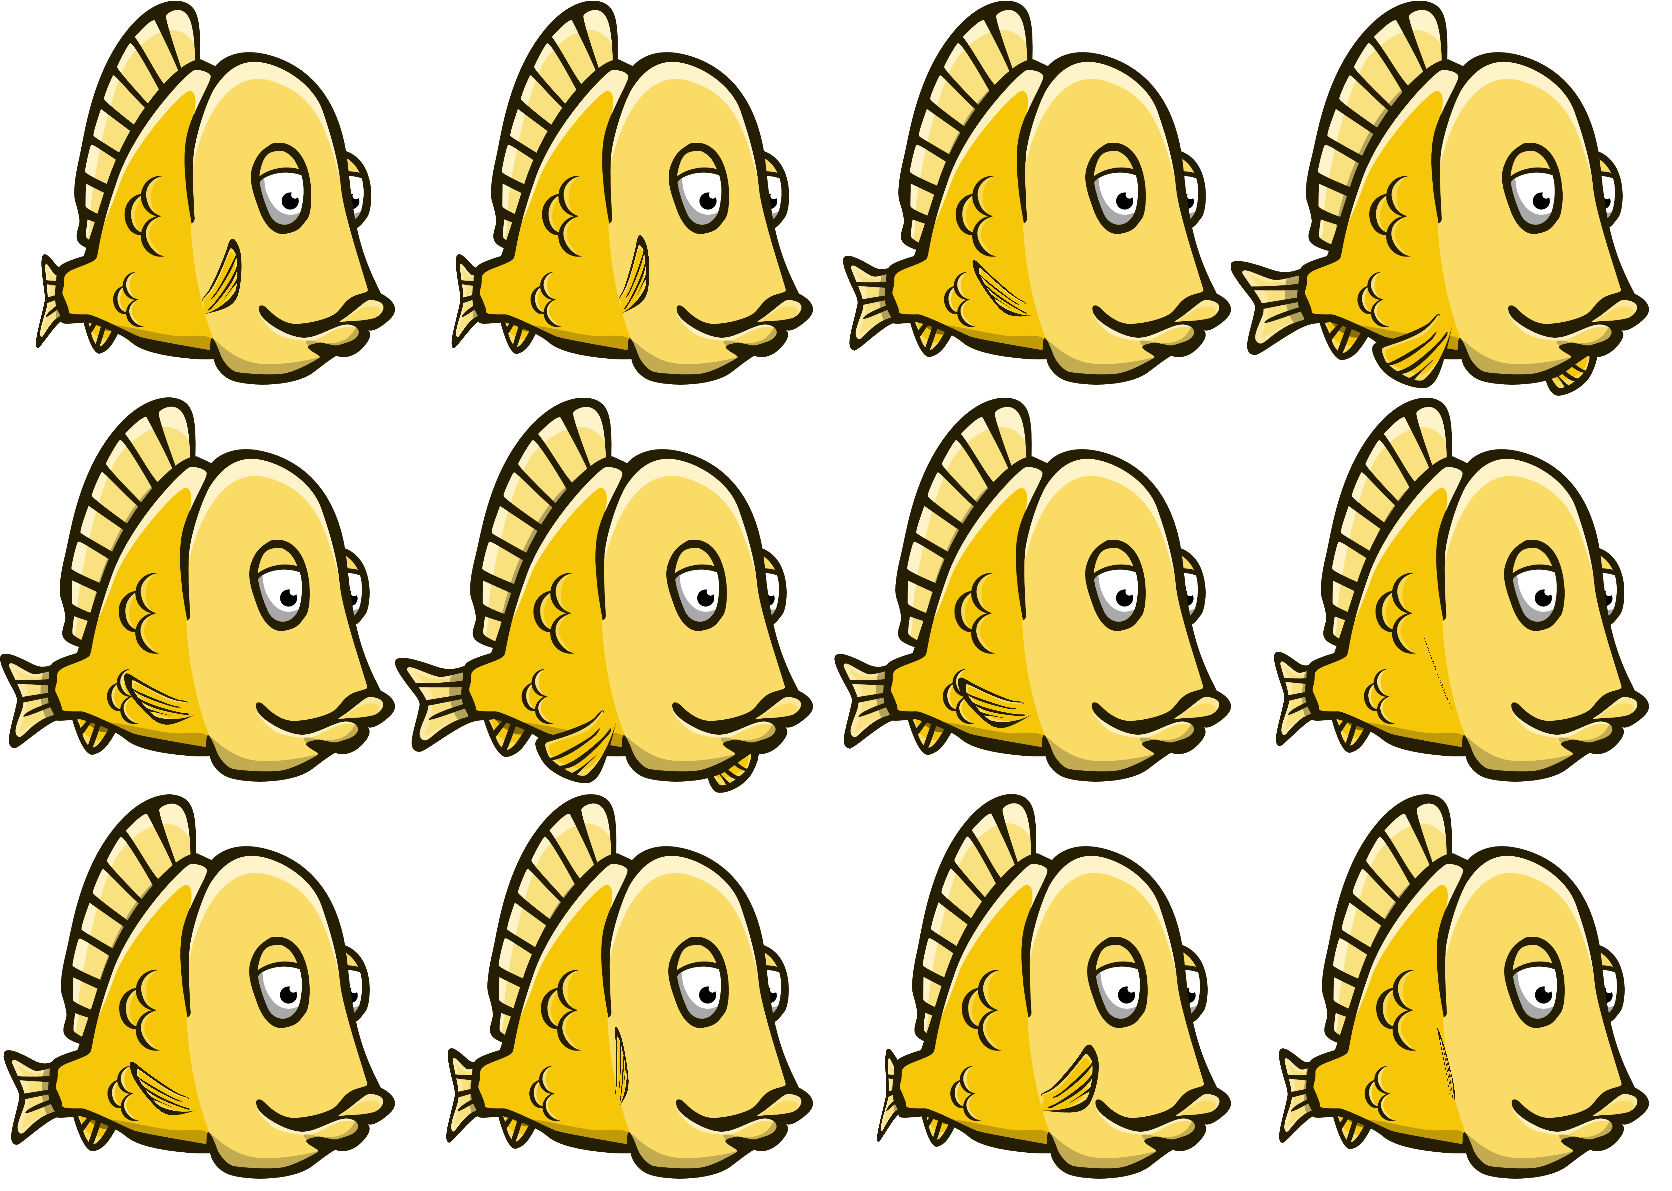
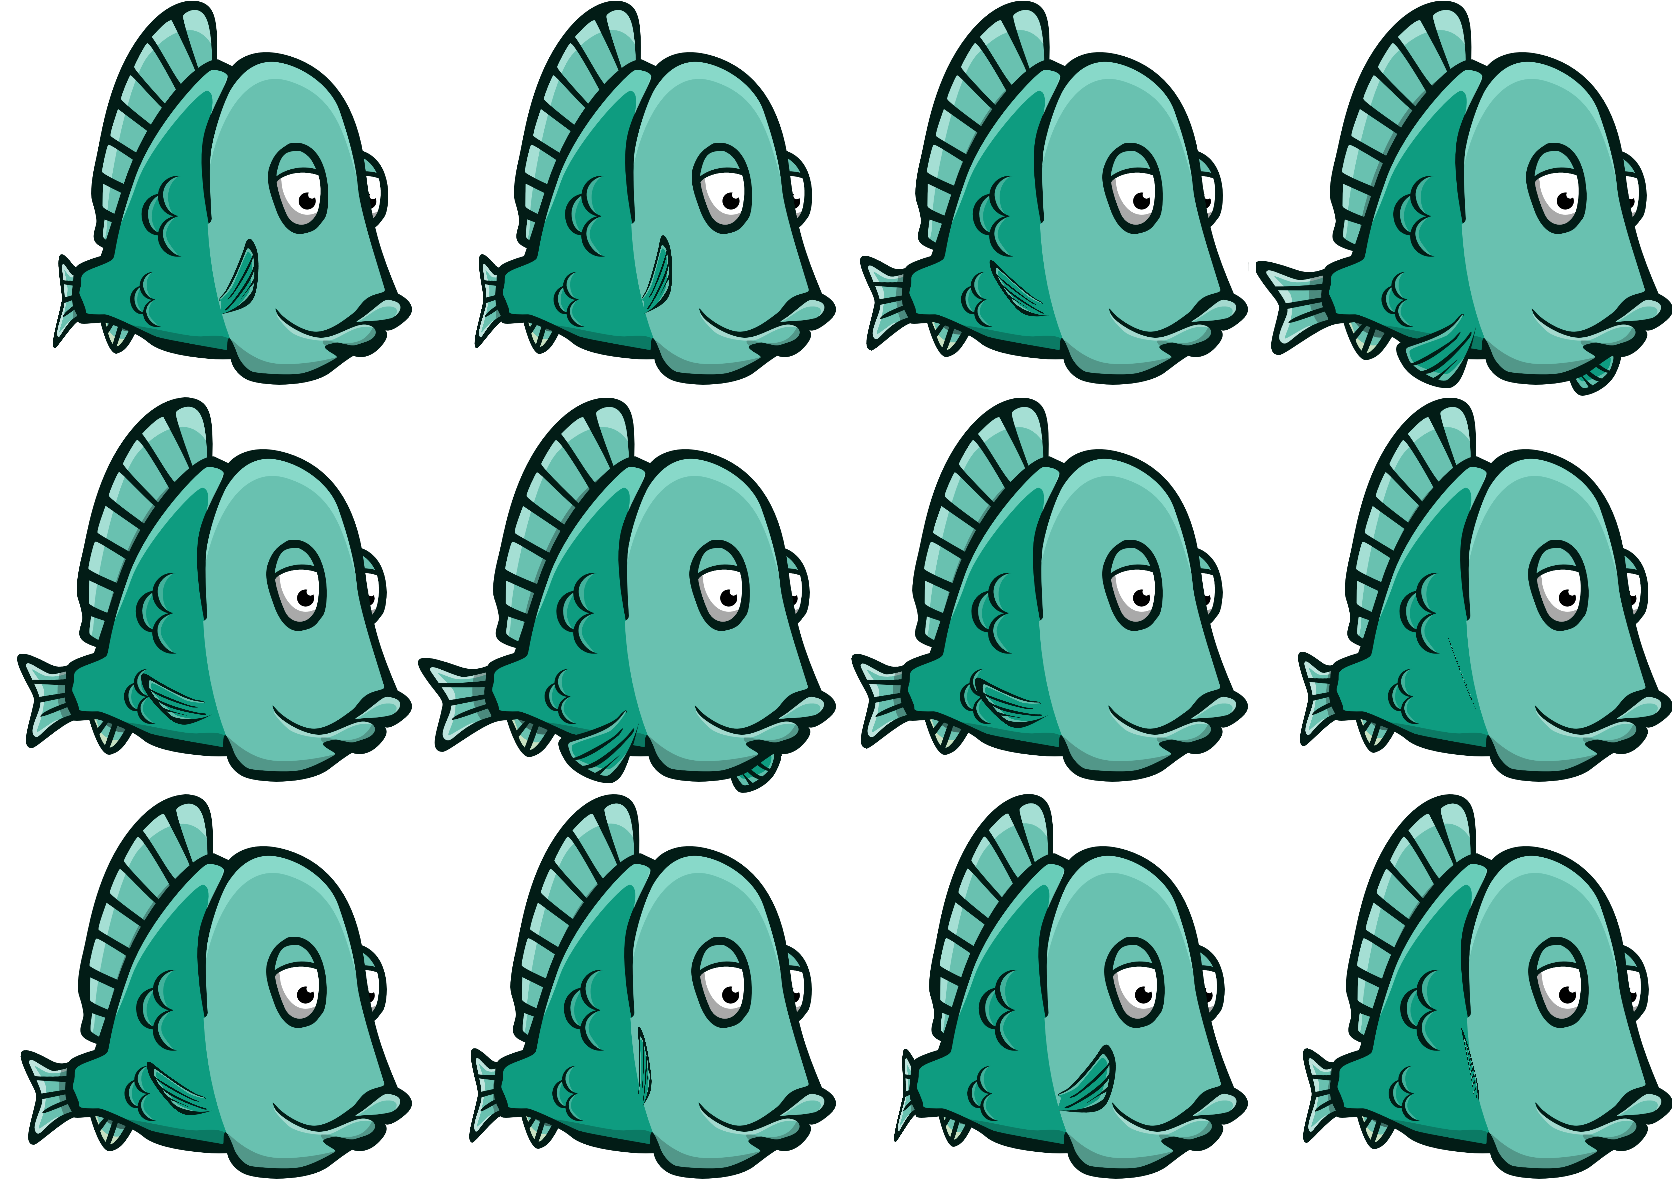
added sprites

diff --git a/js/player.js b/js/player.js
@@ -1,36 +1,31 @@
 class Player {
     constructor(canvas) {
-        this.width = 50;
-        this.height = this.width / 2;
-        this.x = canvas.width / 2 - this.width / 2;
-        this.y = canvas.height / 2 - this.height / 2;
+        this.size = 20;
+        this.x = canvas.width / 2 - this.size / 2;
+        this.y = canvas.height / 2 - this.size / 2;
         this.color = '#bada55';
         this.minSpeed = 0;
         this.xSpeed = 0;
         this.ySpeed = 0;
         this.maxSpeed = 5;
-        this.move = false;
         this.idle = true;
-        this.spriteSheet = this.idle ? loadImage('img/fishIdleRight.png') : loadImage('img/fishSwimRight.png');
-        this.frameX = 0;
-        this.frameY = 0;
-        this.frameWidth = 418;
-        this.frameHeight = 397;
-        this.maxFrameX = 3;
-        this.maxFrameY = 4;
+        this.swimSpriteRight = new FishSprite('img/fishSwimRight.png', 3, 2);
+        this.swimSpriteLeft = new FishSprite('img/fishSwimLeft.png', 3, 2);
+        this.currentSprite = this.swimSpriteRight;
         this.canvas = canvas;
     }
 
     update(game) {
+
         // Speed up with momentum
         if (game.keys['ArrowRight']) {
-            this.idle = false;
+            this.currentSprite = this.swimSpriteRight;
             if (this.xSpeed < this.maxSpeed) {
                 this.xSpeed += 0.1;
             }
         }
         if (game.keys['ArrowLeft']) {
-            this.idle = false;
+            this.currentSprite = this.swimSpriteLeft;
             if (this.xSpeed > -this.maxSpeed) {
                 this.xSpeed -= 0.1;
             }
@@ -58,30 +53,33 @@ class Player {
 
         // Check player is still in play area
         if (this.x > game.canvas.width) {
-            this.x = 0 - this.width;
+            this.x = 0 - this.size;
         }
-        if (this.x + this.width < 0) {
+        if (this.x + this.size < 0) {
             this.x = game.canvas.width;
         }
-        if (this.y + this.height < 0) {
+        if (this.y + this.size < 0) {
             this.y = game.canvas.height;
         }
         if (this.y > game.canvas.height) {
-            this.y = 0 - this.height;
+            this.y = 0 - this.size;
         }
 
         // Move
         this.x += this.xSpeed;
         this.y += this.ySpeed;
 
+        if (!this.idle) {
+            this.currentSprite.animate();
+        }
+
         // Check for collision with food
         for (let i = 0; i < game.foodArr.length; i++) {
             if (detectCollision(this, game.foodArr[i])) {
-                if (this.width > game.foodArr[i].width) {
+                if (this.size > game.foodArr[i].size) {
                     game.foodArr[i].reset(game);
-                    game.points += Math.ceil(game.foodArr[i].width);
-                    this.width += 5;
-                    this.height = this.width / 2;
+                    game.points += Math.ceil(game.foodArr[i].size);
+                    this.size += 5;
                 } else {
                     // Game over
                     game.state = 3;
@@ -90,7 +88,7 @@ class Player {
             }
         }
 
-        if (this.width > game.canvas.width / 5) {
+        if (this.size > game.canvas.width / 5) {
             game.level++;
             game.init();
         }
@@ -98,7 +96,8 @@ class Player {
     }
     draw(ctx) {
         ctx.fillStyle = this.color;
-        ctx.fillRect(this.x, this.y, this.width, this.height);
-        ctx.drawImage(this.spriteSheet, 0, 0, this.frameWidth * this.frameX, this.frameHeight * this.frameY, this.x, this.y, this.width, this.height);
+        //ctx.fillRect(this.x, this.y, this.size, this.size);
+
+        this.currentSprite.draw(this.x, this.y, this.size, this.size);
     }
 }

diff --git a/js/food.js b/js/food.js
@@ -3,9 +3,9 @@ class Food {
         this.direction = Math.random() > 0.5 ? 'h' : 'v'; //Random horizontal or vertical direction
         this.x = Math.random() * game.canvas.width;
         this.y = Math.random() * game.canvas.height;
-        this.width = Math.random() * game.canvas.width / 6;
-        this.height = this.width / 2;
+        this.size = Math.random() * game.canvas.width / 8;
         this.speed = (Math.random() > 0.5 ? (Math.random() * game.level) : (Math.random() * -game.level)); //Random speed between -x (left) and +x (right)
+        this.spriteSheet = loadImage(['img/flake_green.png', 'img/flake_orange.png', 'img/flake_purple.png', 'img/flake_red.png', 'img/flake_yellow.png'][Math.floor(Math.random() * 5)])
     }
     update(game) {
         if (this.direction == 'h') {
@@ -16,31 +16,31 @@ class Food {
 
         /***************************************
          ** Check if food has left the canvas **
-         ** and reset to opposite edge *********
+         ***** and reset to opposite edge ******
          ***************************************/
-        if (this.x + this.width < 0 || // Food has passed left edge of canvas
+        if (this.x + this.size < 0 || // Food has passed left edge of canvas
             this.x > game.canvas.width || // Food has passed right edge of canvas
             this.y > game.canvas.height || // Food has passed bottom edge of canvas
-            this.y + this.height < 0 ||  // Food has passed top edge of canvas
+            this.y + this.size < 0 ||  // Food has passed top edge of canvas
             (this.speed > -0.1 && this.speed < 0.1)) // Food hardly moving
         {
             this.reset(game);
         }
     }
     reset(game) {
-        this.width = Math.random() * game.canvas.width / 6;
-        this.height = this.width / 2;
+        this.size = Math.random() * game.canvas.width / 8;
         this.speed = Math.random() > 0.5 ? (Math.random() * 5) : (Math.random() * -5);
         if (this.direction == 'h') {
             this.y = Math.random() * game.canvas.height;
-            this.x = this.speed > 0 ? 0 - this.width : game.canvas.width;
+            this.x = this.speed > 0 ? 0 - this.size : game.canvas.width;
         } else if (this.direction == 'v') {
-            this.y = this.speed > 0 ? 0 - this.height : game.canvas.height;
+            this.y = this.speed > 0 ? 0 - this.size : game.canvas.height;
             this.x = Math.random() * game.canvas.width;
         }
     }
     draw(ctx) {
         ctx.fillStyle = 'red';
-        ctx.fillRect(this.x, this.y, this.width, this.height);
+        //ctx.fillRect(this.x, this.y, this.width, this.height);
+        ctx.drawImage(this.spriteSheet, this.x, this.y, this.size, this.size);
     }
 }

diff --git a/js/game.js b/js/game.js
@@ -15,25 +15,26 @@ class Game {
         this.state = 0;
         this.points = 0;
         this.level = 1;
+        this.frame = 0;
         new InputHandler(this);
     }
     init() {
         this.player = new Player(canvas);
         this.foodArr = [];
         this.keys = [];
-        for(let i=0; i<this.numberOfFood; i++){
+        for (let i = 0; i < this.numberOfFood; i++) {
             this.foodArr.unshift(new Food(this));
         }
-        if(this.level === 1){
+        if (this.level === 1) {
             this.points = 0;
         }
     }
     update(ctx) {
-         this.player.update(this);
-         this.player.draw(ctx);
-         for(let i=0; i<this.foodArr.length; i++){
-             this.foodArr[i].update(this);
-             this.foodArr[i].draw(ctx);
-         }
+        this.player.update(this);
+        this.player.draw(ctx);
+        for (let i = 0; i < this.foodArr.length; i++) {
+            this.foodArr[i].update(this);
+            this.foodArr[i].draw(ctx);
+        }
     }
 }

diff --git a/js/sprites.js b/js/sprites.js
@@ -1,0 +1,32 @@
+class FishSprite {
+    constructor(src, maxFrameX, maxFrameY) {
+        this.spriteSheet = loadImage(src);
+        this.maxFrameX = maxFrameX;
+        this.maxFrameY = maxFrameY;
+        this.frameWidth = 418;
+        this.frameHeight = 397;
+        this.frameX = 0;
+        this.frameY = 0;
+    }
+
+    animate() {
+        if (game.frame % 10 == 0) {
+            if (this.frameY < this.maxFrameY) {
+                if (this.frameX < this.maxFrameX) {
+                    this.frameX++;
+                }
+                else {
+                    this.frameX = 0;
+                    this.frameY++;
+                }
+
+            } else {
+                this.frameY = 0;
+            }
+        }
+    }
+
+    draw(x, y, w, h) {
+        ctx.drawImage(this.spriteSheet, this.frameWidth * this.frameX, this.frameHeight * this.frameY, this.frameWidth, this.frameHeight, x, y, w, h);
+    }
+}

diff --git a/js/collision.js b/js/collision.js
@@ -1,14 +1,14 @@
 function detectCollision(object1, object2) {
-    if (object1.x + object1.width > object2.x &&
-        object1.x < object2.x + object2.width &&
-        object1.y + object1.height > object2.y &&
-        object1.y < object2.y + object2.height) {
+    if (object1.x + object1.size > object2.x &&
+        object1.x < object2.x + object2.size &&
+        object1.y + object1.size > object2.y &&
+        object1.y < object2.y + object2.size) {
         return true;
     }
-    if (object2.x + object2.widt > object1.x &&
-        object2.x < object1.x + object1.width &&
+    if (object2.x + object2.size > object1.x &&
+        object2.x < object1.x + object1.size &&
         object2.y > object1.y &&
-        object2.y + object2.height < object1.y + object1.height) {
+        object2.y + object2.size < object1.y + object1.size) {
         return true;
     }
 }

diff --git a/js/input.js b/js/input.js
@@ -1,12 +1,14 @@
 class InputHandler {
     constructor(game) {
-        document.addEventListener('keydown', (e)=>{
+        document.addEventListener('keydown', (e) => {
             e.preventDefault();
             game.keys[e.key] = true;
+            game.player.idle = false;
         })
-        document.addEventListener('keyup', (e)=>{
+        document.addEventListener('keyup', (e) => {
             e.preventDefault();
             game.keys[e.key] = false;
+            game.player.idle = true;
         })
     }
 }

diff --git a/index.html b/index.html
@@ -17,14 +17,15 @@
 
     #canvas {
         border: 1px solid black;
+        background: linear-gradient(lightblue, #2d2d85)
     }
 </style>
 
 <body>
-
     <canvas id="canvas"></canvas>
 
     <script src='js/loaders.js'></script>
+    <script src='js/sprites.js'></script>
     <script src='js/input.js'></script>
     <script src='js/collision.js'></script>
     <script src='js/food.js'></script>

diff --git a/js/script.js b/js/script.js
@@ -9,10 +9,11 @@ canvas.height = 600;
 const game = new Game(canvas);
 game.init();
 
-function loop(){
+function loop() {
     ctx.clearRect(0, 0, canvas.width, canvas.height);
     game.update(ctx);
     requestAnimationFrame(loop);
+    game.frame++;
 }
 
 requestAnimationFrame(loop);
